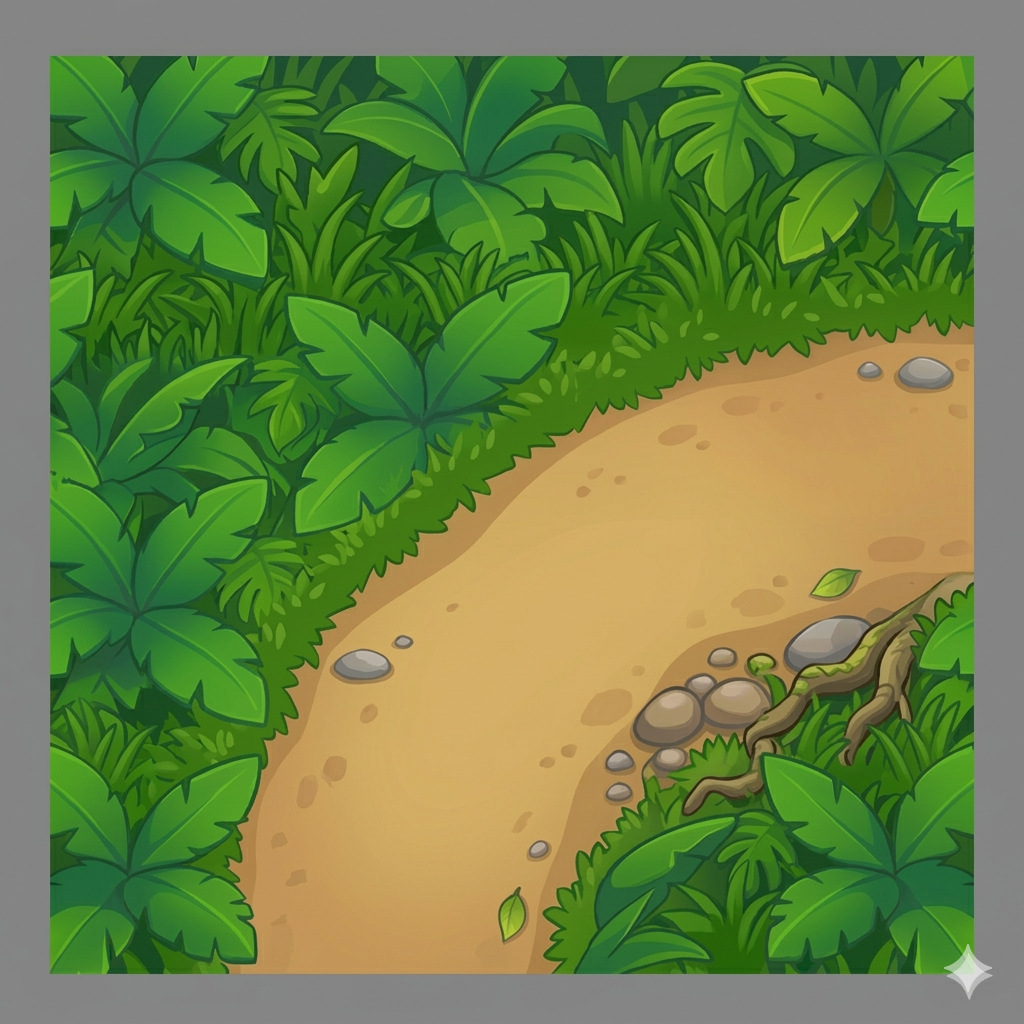
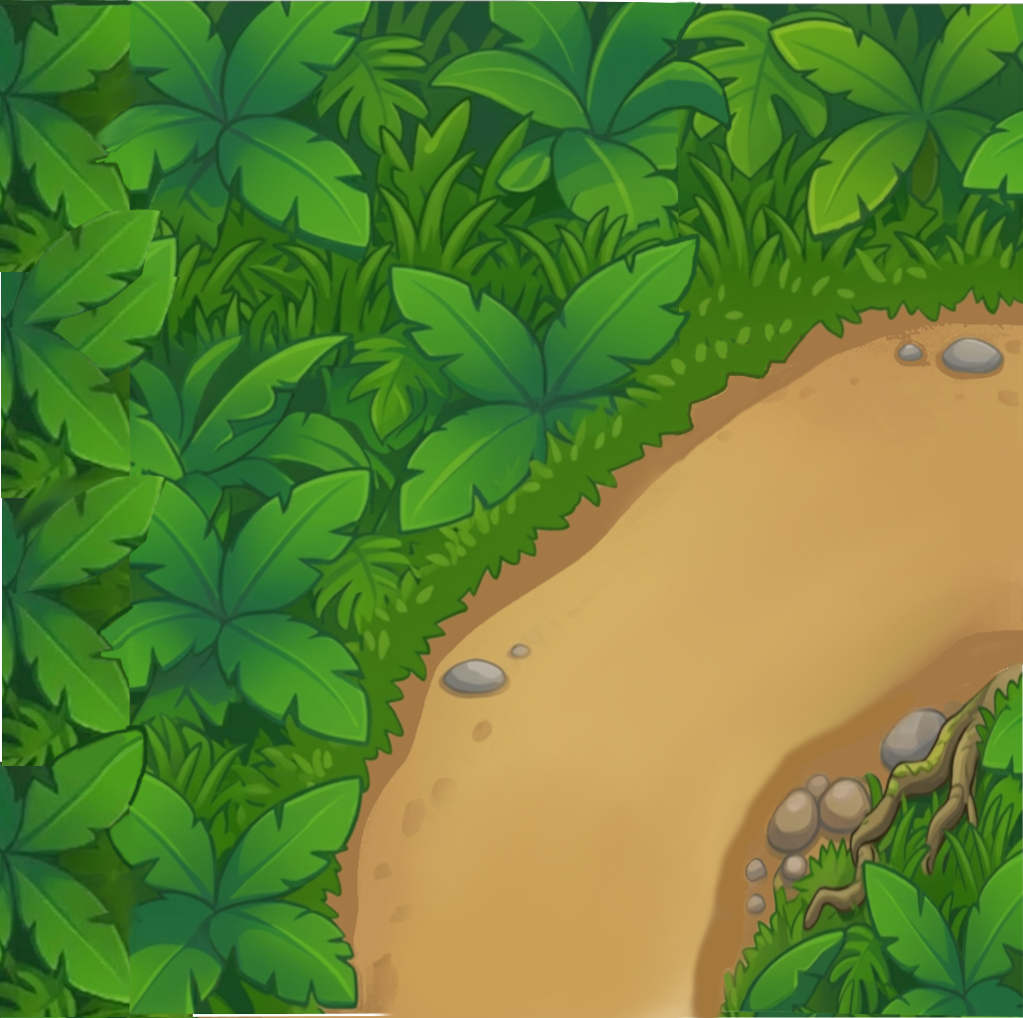
Feature: Añadidas serpientes y escaleras y botón para probar saltos

diff --git a/src/components/interfaz/Tablero.tsx b/src/components/interfaz/Tablero.tsx
@@ -1,106 +1,175 @@
 "use client";
 import React, { useState } from "react";
 
-// Definición del tipo Ficha: representa una ficha en el tablero con su ID, posición y color
+// Definición de tipos
 type Ficha = {
   id: string;
   posicion: number;
   color: string;
 };
 
-// Definición del tipo InfoCasilla: información de una casilla, incluyendo la imagen y rotación
 type InfoCasilla = {
   src: string;
   rotacion: number;
 };
 
-// Constantes para las imágenes de las casillas del tablero
+// Constantes de imágenes de las casillas
 const IMAGENES = {
   VACIA: "casilla_vacia.png",
-  HORIZONTAL: "casilla_horizontal.png",
+  VERTICAL: "casilla_vertical.png",
   CURVA: "casilla_curva.png",
   BIFURCACION: "casilla_bifurcacion.png",
 };
 
-// Mapa inicial del tablero: define qué casillas tienen imágenes específicas (las demás son jungla vacía)
 const mapaTablero: Record<number, InfoCasilla> = {
-  // Ejemplo: Casilla 1 como salida horizontal
-  1: { src: IMAGENES.HORIZONTAL, rotacion: 0 },
+  1: { src: IMAGENES.VERTICAL, rotacion: 90 },
+  2: { src: IMAGENES.VERTICAL, rotacion: 90 },
+  3: { src: IMAGENES.VERTICAL, rotacion: 90 },
+  4: { src: IMAGENES.VERTICAL, rotacion: 90 },
+  5: { src: IMAGENES.VERTICAL , rotacion: 90 },
+  6: { src: IMAGENES.VERTICAL, rotacion: 90 },
+  7: { src: IMAGENES.VERTICAL, rotacion: 90 },
+  8: { src: IMAGENES.VERTICAL, rotacion: 90 },
+  9: { src: IMAGENES.VERTICAL, rotacion: 90 },
+  10: { src: IMAGENES.CURVA, rotacion: 180 },
+  13: { src: IMAGENES.VERTICAL, rotacion: 0 },
 };
 
-// Componente principal Tablero: maneja el estado del juego, las fichas y el tablero
+// Diccionario visual: SOLO SIRVE PARA PINTAR LAS IMÁGENES
+// La lógica real de dónde acaba la ficha nos la dictará el backend en el array
+const SALTOS_ESPECIALES: Record<number, number> = {
+  17: 9,   // Serpiente 1
+  9: 3,    // Trampa encadenada
+  20: 38,  // Escalera
+};
+
+// Mini-función para crear pausas dramáticas en el código
+const esperar = (ms: number) => new Promise(resolve => setTimeout(resolve, ms));
+
 export default function Tablero() {
-  // Estado para las fichas del jugador: array de objetos Ficha
   const [misFichas, setMisFichas] = useState<Ficha[]>([
     { id: "Ficha 1", posicion: 1, color: "bg-red-400" },
     { id: "Ficha 2", posicion: 1, color: "bg-red-500" },
     { id: "Ficha 3", posicion: 1, color: "bg-red-600" }
   ]);
 
-  // Estado para indicar si se está tirando el dado (animación)
-  const [tirandoDado, setTirandoDado] = useState(false);
-
-  // Estado para los movimientos permitidos por ficha: mapa de ID de ficha a array de posiciones posibles
   const [movimientosPermitidos, setMovimientosPermitidos] = useState<Record<string, number[]>>({});
-
-  // Estado para la ficha seleccionada actualmente
   const [fichaSeleccionada, setFichaSeleccionada] = useState<string | null>(null);
 
-  // Función para simular la tirada de dado: activa animación y simula respuesta del backend
+  // --- LÓGICA TEMPORAL PARA PROBAR ---
   const simularTiradaDado = () => {
-    setTirandoDado(true);
     setFichaSeleccionada(null);
-
-    setTimeout(() => {
-      // Respuesta simulada del backend: movimientos posibles por ficha
-      const respuestaBackend = {
-        "Ficha 1": [2, 11],
-        "Ficha 2": [2],
-        "Ficha 3": [2]
-      };
-      setMovimientosPermitidos(respuestaBackend);
-      setTirandoDado(false);
-    }, 1000);
+    // Iluminamos las casillas 17 y 20 para que puedas hacer clic
+    setMovimientosPermitidos({
+      "Ficha 1": [17, 20],
+      "Ficha 2": [2],
+      "Ficha 3": [2]
+    });
   };
 
-  // Función para seleccionar una ficha: marca la ficha como seleccionada si tiene movimientos
   const seleccionarFicha = (idFicha: string) => {
     if (movimientosPermitidos[idFicha] && movimientosPermitidos[idFicha].length > 0) {
       setFichaSeleccionada(idFicha);
     }
   };
 
-  // Función para mover la ficha al destino seleccionado: actualiza la posición y resetea estados
-  const moverFichaAlDestino = (casillaDestino: number) => {
+  // =================================================================
+  // LÓGICA DE MOVIMIENTO ANIMADO (LISTO PARA EL BACKEND)
+  // =================================================================
+  const moverFichaAlDestino = async (casillaDestino: number) => {
     if (!fichaSeleccionada) return;
-    setMisFichas(fichas =>
-      fichas.map(f => f.id === fichaSeleccionada ? { ...f, posicion: casillaDestino } : f)
-    );
+
+    // 1. Guardamos qué ficha se mueve y bloqueamos la UI
+    const fichaActual = fichaSeleccionada;
     setMovimientosPermitidos({});
     setFichaSeleccionada(null);
+
+    // 2. SIMULACIÓN: Aquí harías tu fetch() al backend enviando la 'casillaDestino'
+    // Y el backend te devolvería la 'rutaAnimacion'
+    let rutaAnimacion = [casillaDestino]; // Por defecto, una sola parada
+
+    // Simulamos el caso que le comentaste a tu compañero:
+    if (casillaDestino === 17) {
+      rutaAnimacion = [17, 9, 3]; // La ficha va a la 17, luego baja a la 9, luego a la 3
+    } else if (casillaDestino === 20) {
+      rutaAnimacion = [20, 38]; // Escalera normal
+    }
+
+    // 3. BUCLE DE ANIMACIÓN
+    for (let i = 0; i < rutaAnimacion.length; i++) {
+      const parada = rutaAnimacion[i];
+
+      // Actualizamos la posición de la ficha
+      setMisFichas(fichas =>
+        fichas.map(f => f.id === fichaActual ? { ...f, posicion: parada } : f)
+      );
+
+      // Si no es la última parada del array, esperamos 800ms para que se vea la animación
+      if (i < rutaAnimacion.length - 1) {
+        await esperar(800);
+      }
+    }
+    
+    // Aquí el bucle ha terminado. La ficha está en su destino final.
   };
 
-  // Genera un array de números del 1 al 100 para las casillas del tablero
+  // Generamos el tablero de abajo hacia arriba
   const casillas: number[] = [];
-  
-  // Bucle que va desde la fila superior (9) hasta la inferior (0)
   for (let fila = 9; fila >= 0; fila--) {
     for (let col = 1; col <= 10; col++) {
-      // El 1 está abajo a la izquierda y el 100 arriba a la derecha.
       casillas.push(fila * 10 + col);
     }
   }
-  // Destinos iluminados: posiciones posibles para la ficha seleccionada
+
   const destinosIluminados = fichaSeleccionada ? movimientosPermitidos[fichaSeleccionada] : [];
 
-  // Verifica si hay movimientos pendientes (para deshabilitar el botón de tirar dado)
-  const hayMovimientosPendientes = Object.keys(movimientosPermitidos).length > 0;
+  // ==========================================
+  // MAGIA MATEMÁTICA: PINTAR LOS PNGs
+  // ==========================================
+  const renderizarObstaculosPNG = () => {
+    const obtenerCoordenadas = (casilla: number) => {
+      const filaReal = Math.floor((casilla - 1) / 10); 
+      const colReal = (casilla - 1) % 10; 
+      const filaCSS = 9 - filaReal; 
+      return {
+        x: colReal * 10 + 5, 
+        y: filaCSS * 10 + 5
+      };
+    };
 
-  // Renderizado del componente
+    return Object.entries(SALTOS_ESPECIALES).map(([inicio, fin]) => {
+      const start = obtenerCoordenadas(Number(inicio));
+      const end = obtenerCoordenadas(fin);
+      
+      const dx = end.x - start.x;
+      const dy = end.y - start.y;
+      
+      const longitud = Math.sqrt(dx * dx + dy * dy);
+      const angulo = Math.atan2(dy, dx) * (180 / Math.PI);
+      const esEscalera = fin > Number(inicio);
+
+      return (
+        <img
+          key={`${inicio}-${fin}`}
+          src={esEscalera ? "/escalera.png" : "/serpiente.png"} 
+          alt={esEscalera ? "Escalera" : "Serpiente"}
+          className="absolute z-30 pointer-events-none drop-shadow-xl"
+          style={{
+            left: `${start.x}%`,
+            top: `calc(${start.y}% - 4%)`,
+            width: `${longitud}%`,
+            height: '8%',
+            transformOrigin: '0% 50%',
+            transform: `rotate(${angulo}deg)`
+          }}
+        />
+      );
+    });
+  };
+
   return (
     <div className="flex flex-col items-center justify-center gap-2 h-full max-h-full w-full mx-auto p-2 min-h-0 relative">
 
-      {/* Sección del botón para tirar dados y mensaje de selección */}
       {fichaSeleccionada && (
         <div className="absolute top-4 z-50 bg-black/80 px-6 py-2 rounded-full pointer-events-none shadow-lg border border-green-500/30">
           <p className="text-green-400 font-bold animate-pulse text-lg">
@@ -109,18 +178,26 @@ export default function Tablero() {
         </div>
       )}
 
-      {/* Contenedor del tablero: grid de 10x10 casillas */}
-      <div className="h-full aspect-square max-w-full max-h-full bg-gray-900 p-1.5 rounded-2xl shadow-2xl shrink min-h-0">
+      {/* Botón temporal de prueba */}
+      <button
+        onClick={simularTiradaDado}
+        className="absolute -top-10 z-50 px-4 py-1 bg-indigo-600 hover:bg-indigo-500 text-white font-bold rounded shadow transition-all"
+      >
+        Probar Saltos
+      </button>
+
+      {/* CONTENEDOR DEL TABLERO */}
+      <div className="h-full aspect-square max-w-full max-h-full bg-gray-900 p-1.5 rounded-2xl shadow-2xl shrink min-h-0 relative">
         <div className="w-full h-full grid grid-cols-10 grid-rows-10 relative overflow-hidden rounded-md">
+          
+          <div className="absolute inset-0 w-full h-full pointer-events-none z-30">
+            {renderizarObstaculosPNG()}
+          </div>
 
-          {/* Renderiza cada casilla del tablero */}
+          {/* DIBUJO DE LAS CASILLAS Y LAS FICHAS */}
           {casillas.map((num) => {
-            // Fichas en esta casilla
             const fichasAqui = misFichas.filter(f => f.posicion === num);
-            // Si esta casilla es un destino posible
             const esDestinoPosible = destinosIluminados.includes(num);
-
-            // Información de la casilla (imagen y rotación)
             const infoCasilla = mapaTablero[num] || { src: IMAGENES.VACIA, rotacion: 0 };
 
             return (
@@ -129,11 +206,10 @@ export default function Tablero() {
                 onClick={() => esDestinoPosible && moverFichaAlDestino(num)}
                 className={`
                   relative flex flex-wrap items-center justify-center gap-[2px] transition-all duration-300
-                  ${esDestinoPosible ? "cursor-pointer ring-4 ring-green-300 ring-inset animate-pulse z-30 scale-105 shadow-[0_0_15px_rgba(34,197,94,0.8)]" : ""}
+                  ${esDestinoPosible ? "cursor-pointer ring-4 ring-green-300 ring-inset animate-pulse z-40 scale-105 shadow-[0_0_15px_rgba(34,197,94,0.8)]" : ""}
                   ${!esDestinoPosible && fichaSeleccionada ? "opacity-30" : ""}
                 `}
               >
-                {/* Fondo de la casilla con imagen */}
                 <div
                   className="absolute inset-0 w-full h-full z-0 pointer-events-none scale-105"
                   style={{
@@ -143,11 +219,8 @@ export default function Tablero() {
                     transform: `rotate(${infoCasilla.rotacion}deg)`
                   }}
                 />
-                {/* Renderiza las fichas en esta casilla */}
                 {fichasAqui.map(ficha => {
-                  // Si la ficha es seleccionable (tiene movimientos)
                   const esSeleccionable = movimientosPermitidos[ficha.id] !== undefined;
-                  // Si esta ficha está seleccionada
                   const estaSeleccionada = fichaSeleccionada === ficha.id;
 
                   return (
